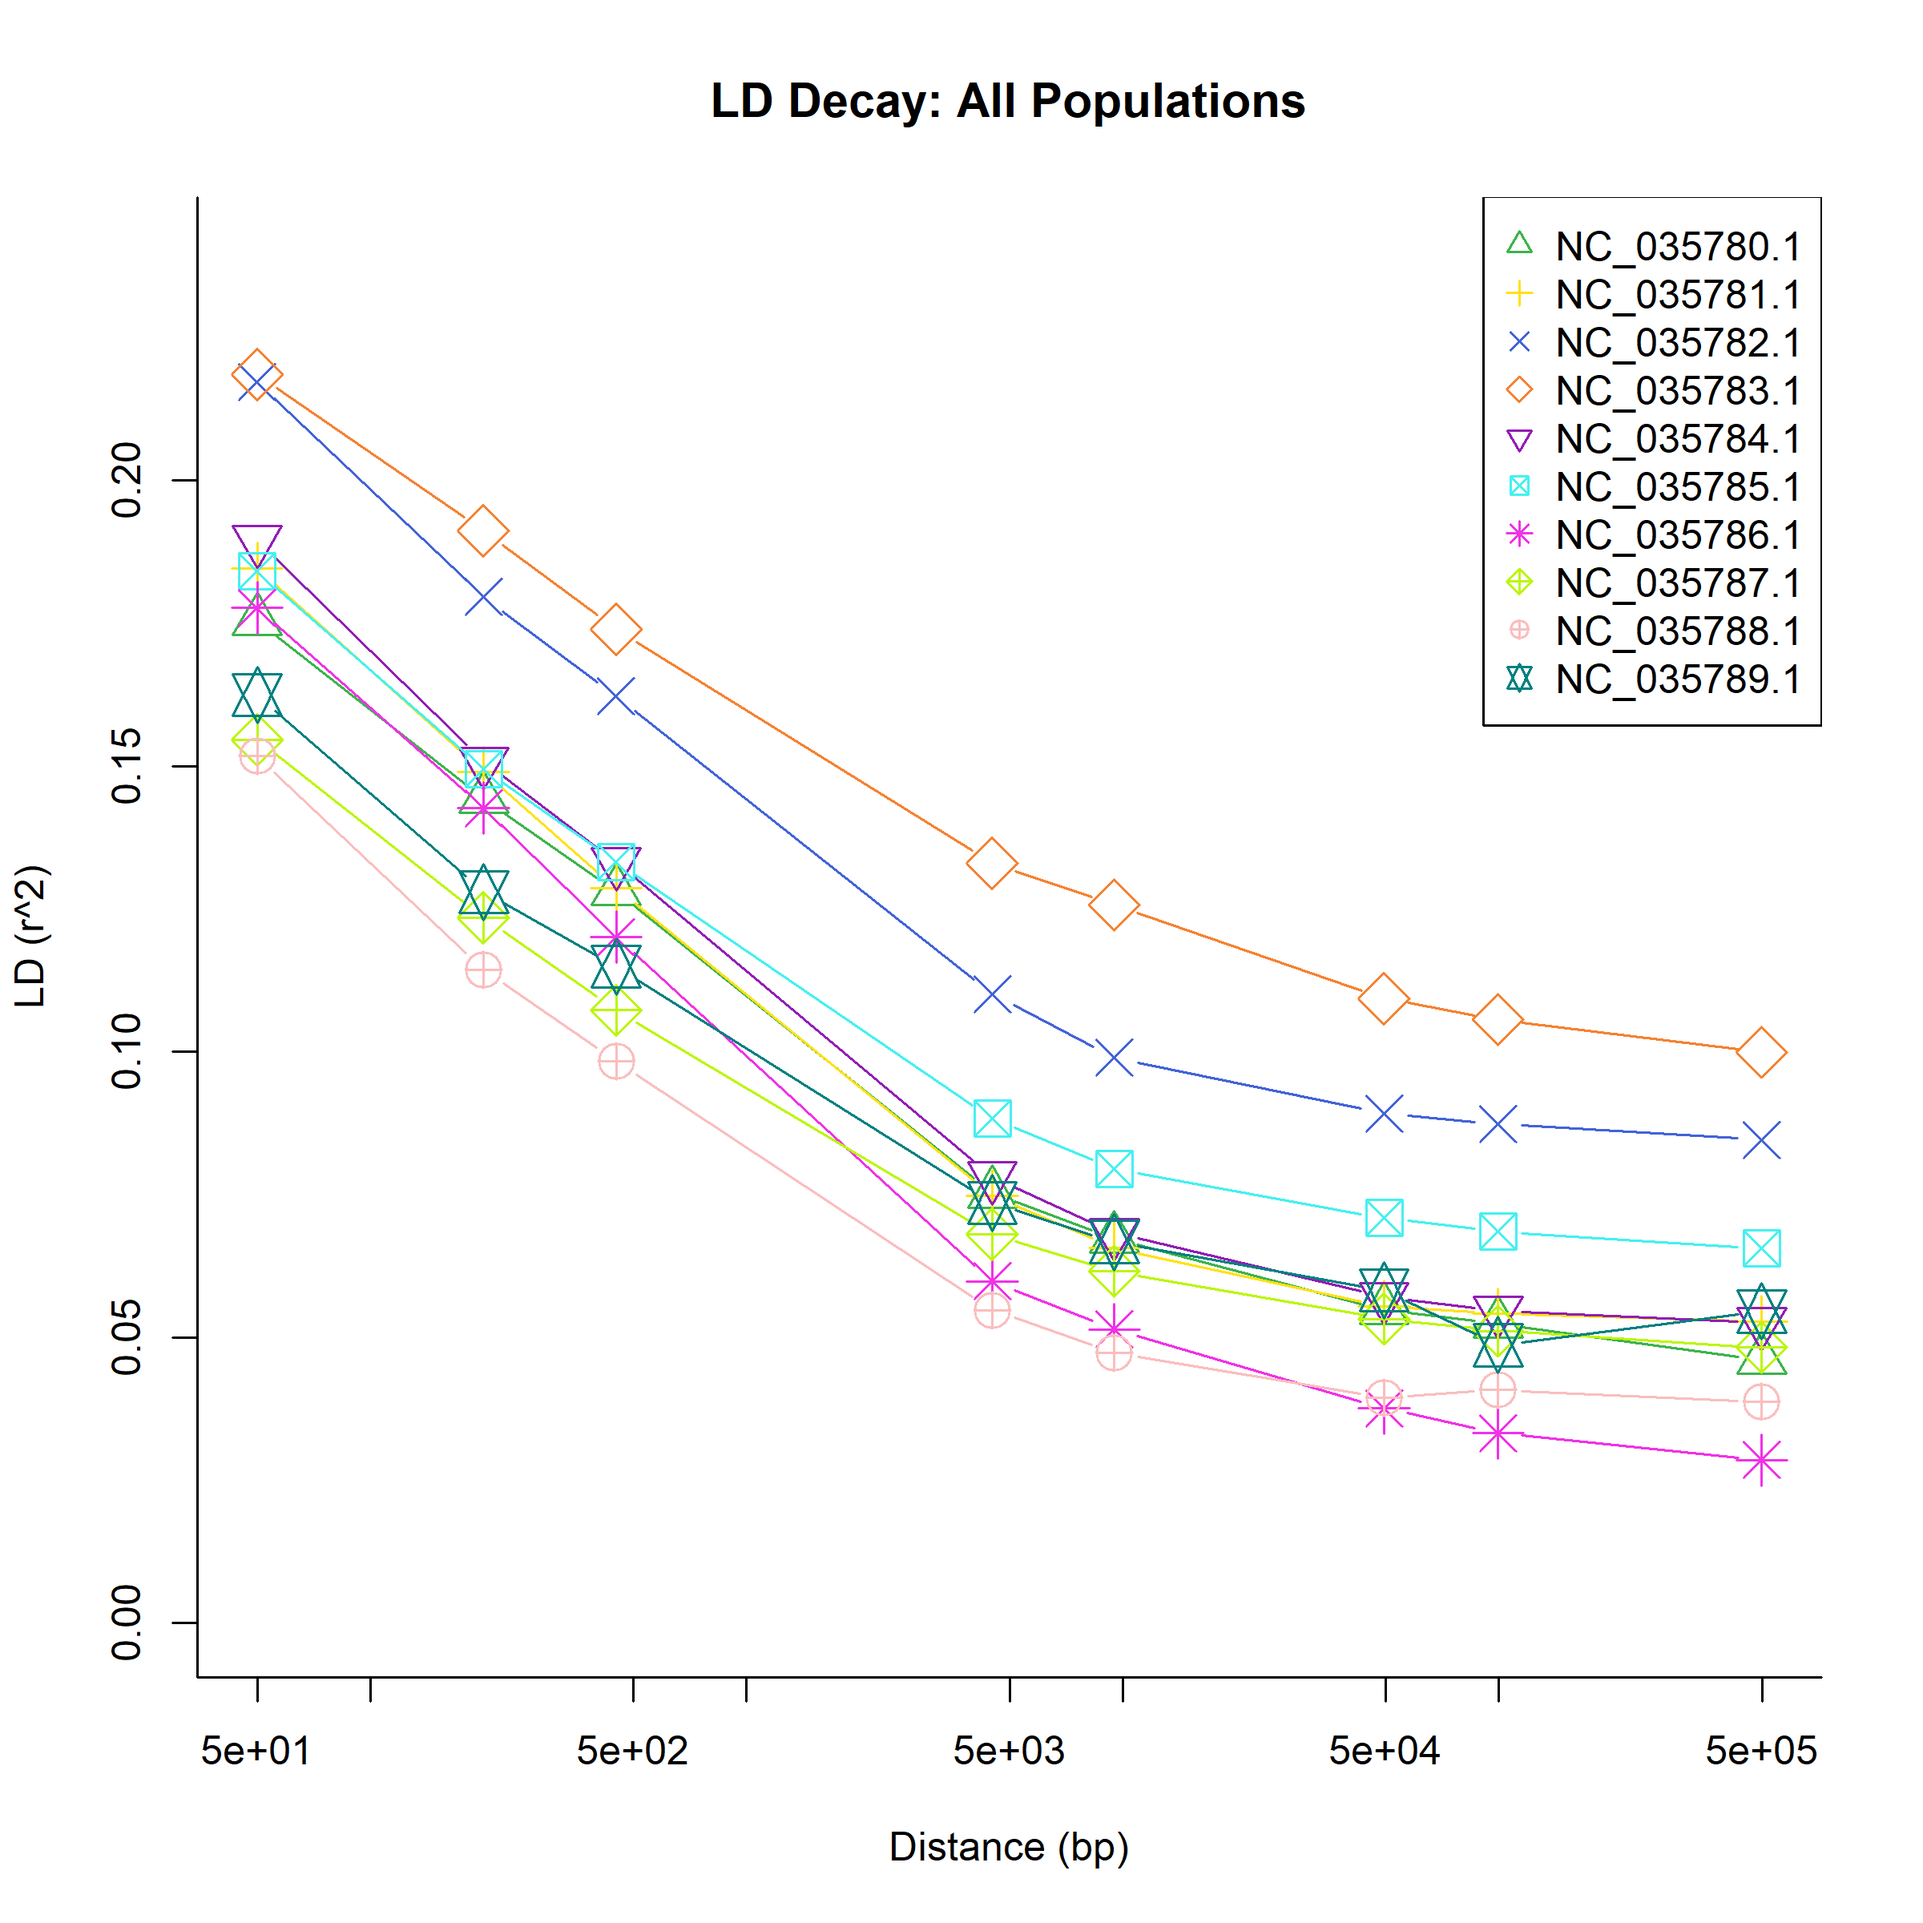
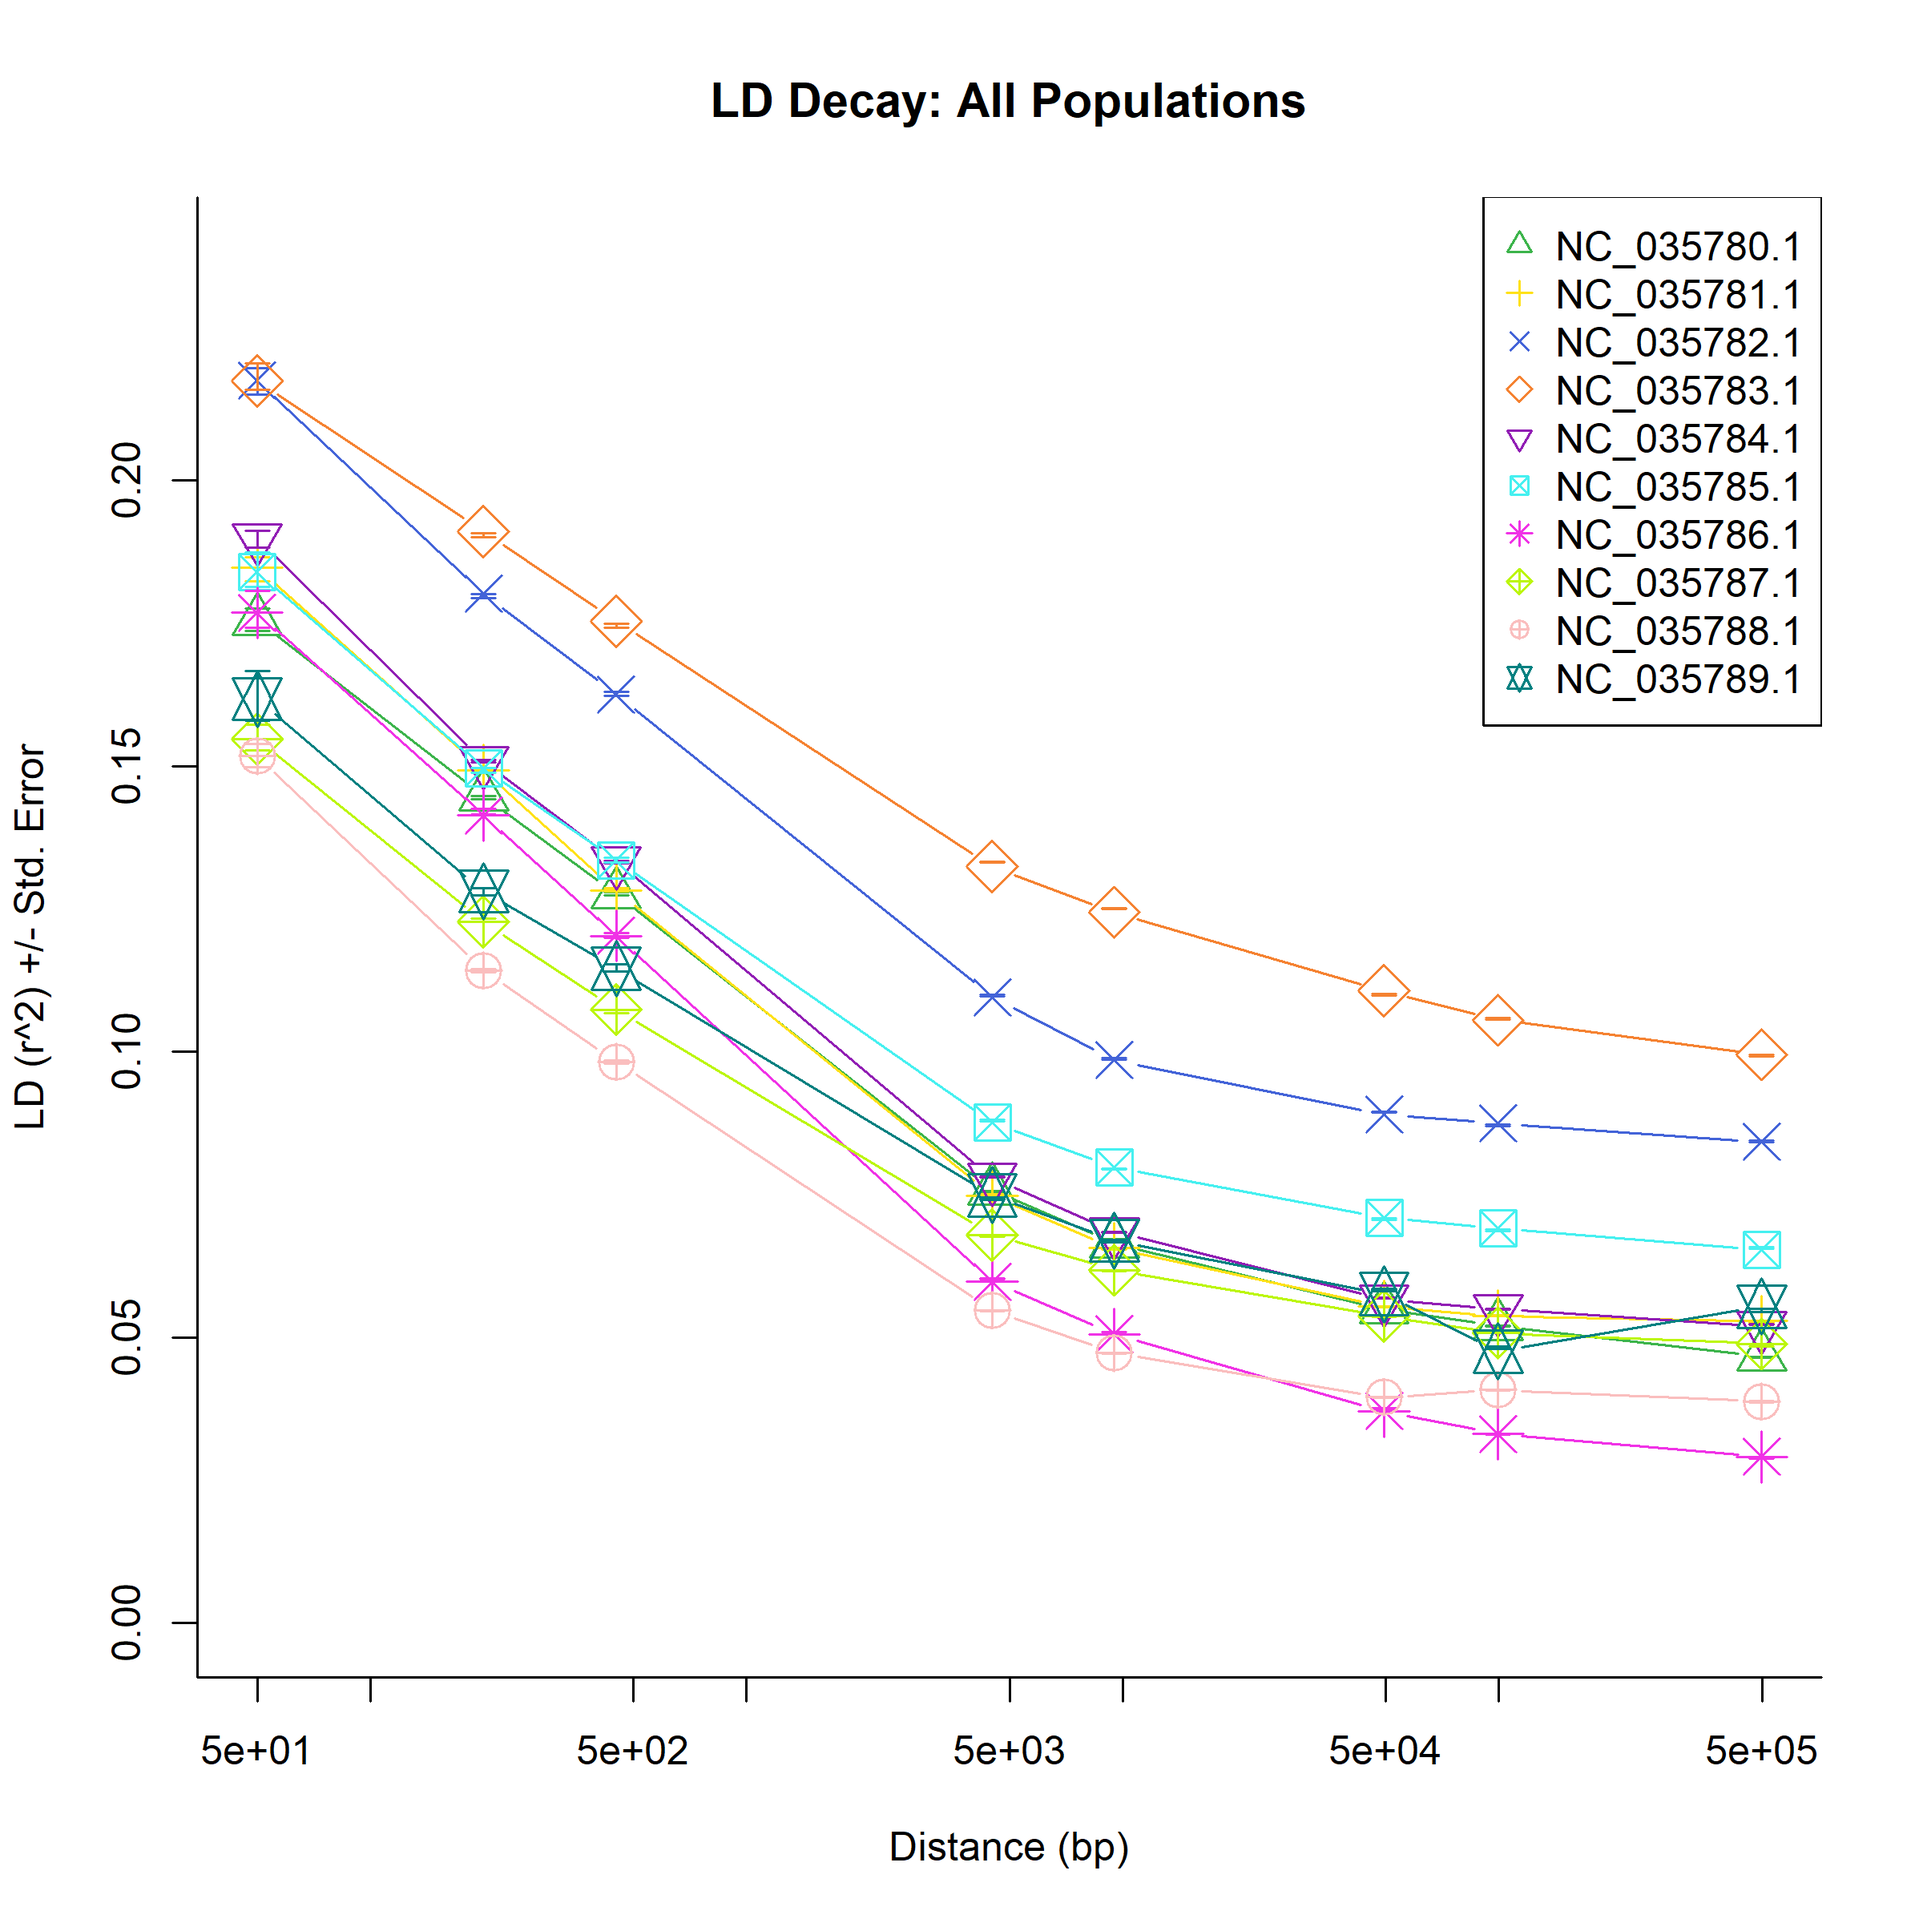
LD decay analysis edited: error bars and methods added

diff --git a/popstructureOutliers/notebook/2019-03-20_KBW_LDdecayResults.md b/popstructureOutliers/notebook/2019-03-20_KBW_LDdecayResults.md
@@ -14,7 +14,7 @@ We used `vcftools` for the LD calculations. Across all LD decay analyses, we use
 vcftools --gzvcf Combined.SNP.TRSdp5g1FnDNAmaf052alleles.vcf.gz --geno-r2 --ld-window-bp-min 200 --ld-window-bp 250 --out ldAnalysisData/geno_ld_window_200-250
 ```
 
-Lastly, to summarize and plot LD for each chromosome, I took a mean of the LD values for each chromosome. Each point that you see on the plots below represent that mean LD value. To see the variance in LD at each window size for each chromosome, error bars are shown which one standard deviation from the mean.
+Lastly, to summarize and plot LD for each chromosome, I took a mean of the LD values for each chromosome. Each point that you see on the plots below represent that mean LD value. To see the variance in LD at each window size for each chromosome, error bars are shown to visualize the mean +/- the standard error.
 
 ### Individuals and Subsets of Individuals
 
@@ -24,33 +24,32 @@ We also wanted to see how LD decay is affected when only considering specific su
 
 #### Related Individuals
 
-One caveat with the subset of individuals from Atlantic selection lines is that there were individuals that were highly related (relatedness > 0.5). These individuals (NEH_1 & LOLA_2) were removed from the LD decay analysis of Atlantic selection lines.
+One thing to note with the subset of individuals from Atlantic selection lines is that there were individuals that were highly related (relatedness > 0.5). I suggest that setting the relatedness threshold at 0.5 removes highly related individuals that may affect the thinning process. As a sanity check, I looked at LD decay of the Atlantic selection lines with NEH_1 and LOLA_2 and again without those two individuals. The LD decay slope was not visibly affected by excluding these samples.
+
+The LD decay plot below corresponding to the Atlantic selection lines shows the LD decay when excluding those related individuals (NEH_1 & LOLA_2).
 
 ## Results
 
 ### All populations and Excluding Laguna Madre
 
-The effect that they have on the LD decay is fairly obvious. Here is the LD decay when LM samples are included...
+The effect that they have on the LD decay is fairly obvious. Here is the LD decay when LM samples are included (left) and excluded (right).
 
-![](https://raw.githubusercontent.com/jpuritz/OysterGenomeProject/master/popstructureOutliers/figures/1LD_analysis/ldDecayPlot_allpops.png)
-__../figures/1LD_analysis/LdDecayPlot_allpops.png__
+<p float="left">
+    <img src="https://raw.githubusercontent.com/jpuritz/OysterGenomeProject/master/popstructureOutliers/figures/1LD_analysis/ldDecayPlot_allpops.png" width="400">
+    <img src="https://raw.githubusercontent.com/jpuritz/OysterGenomeProject/master/popstructureOutliers/figures/1LD_analysis/ldDecayPlot_excluding_LM.png" width="400">
+</p>
 
-Then, compare that to same analysis when LM samples are excluded...
-
-![](https://raw.githubusercontent.com/jpuritz/OysterGenomeProject/master/popstructureOutliers/figures/1LD_analysis/ldDecayPlot_excluding_LM.png)
-__../figures/1LD_analysis/LdDecayPlot_excluding_LM.png__
 
 The LD decay is much more pronounced when excluding LM individuals. This will lead us to using a much smaller window when performing the SNP thinning. However, we wanted to see how LD decay was behaving when considering certain subsets of the populations as well.
 
 ### Atlantic Wild and Selection subsets
 
-Here are the plots from those analyses, respectively:
+Here are the plots from those analyses, Atlantic wild subset (left) and selection lines (right).
 
-![](https://raw.githubusercontent.com/jpuritz/OysterGenomeProject/master/popstructureOutliers/figures/1LD_analysis/ldDecayPlot_excluding_selection.png)
-__../figures/1LD_analysis/LdDecayPlot_excluding_selection.png__
-
-![](https://raw.githubusercontent.com/jpuritz/OysterGenomeProject/master/popstructureOutliers/figures/1LD_analysis/ldDecayPlot_excluding_wild.png)
-__../figures/1LD_analysis/LdDecayPlot_excluding_wild.png__
+<p float="left">
+    <img src="https://raw.githubusercontent.com/jpuritz/OysterGenomeProject/master/popstructureOutliers/figures/1LD_analysis/ldDecayPlot_excluding_selection.png" width="400">
+    <img src="https://raw.githubusercontent.com/jpuritz/OysterGenomeProject/master/popstructureOutliers/figures/1LD_analysis/ldDecayPlot_excluding_wild.png" width="400">
+</p>
 
 The comparison between the wild and selection plots might be what you would expect given the relatedness amongst the selection lines. The LD decay does not go quite as low with selection lines
 
